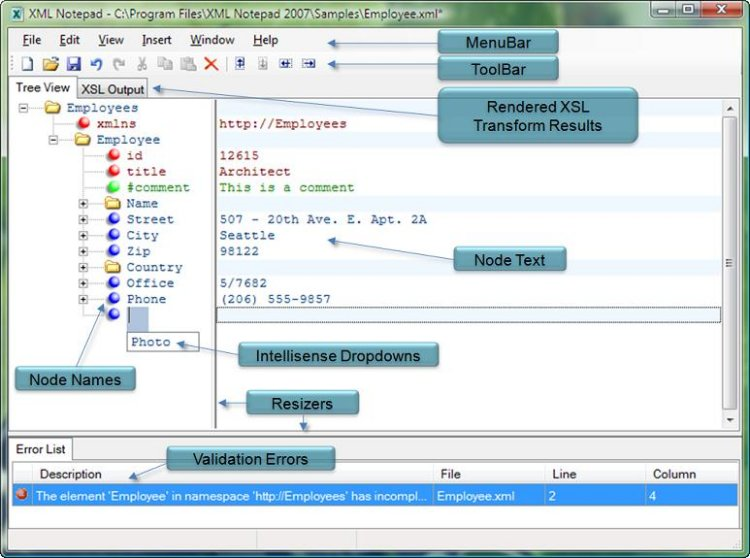
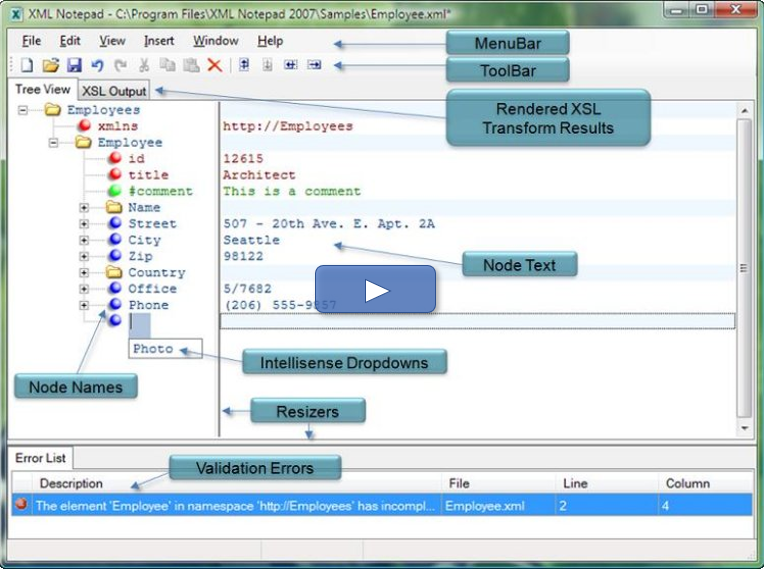
add link to video

diff --git a/readme.md b/readme.md
@@ -3,7 +3,7 @@ XML Notepad provides a simple intuitive User Interface for browsing and editing 
 2. [Standalone downloadable installer](http://www.lovettsoftware.com/downloads/xmlnotepad/xmlnotepadsetup.zip) if you need something that works offline.
 Just download the zip file, copy it to the machine you want to install it on, unzip the file on that machine and run xmlnotepadsetup.msi.
 
-![image](images/help.png)
+[![image](images/help.png)](https://youtu.be/dtuSI4ZDZxg)
 
 XML Notpead provides the following useful features:
 - XML Schema aware Intellisense
